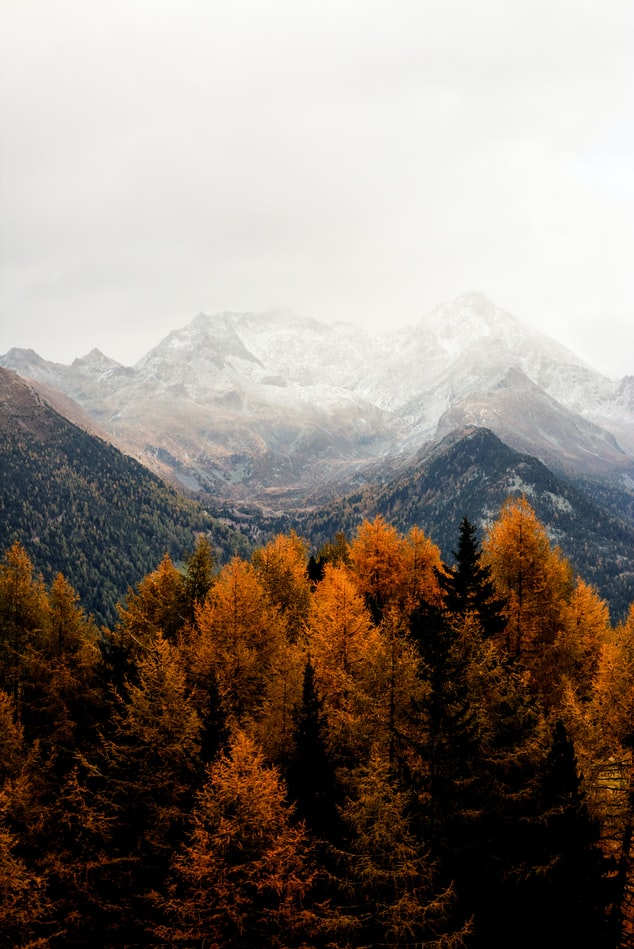
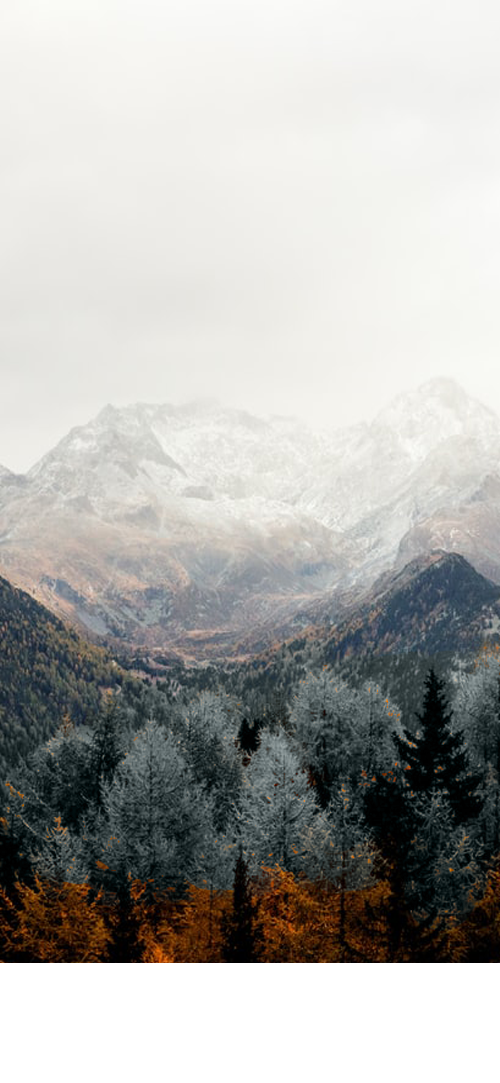
Edit images, added styles and content

diff --git a/Forest-Parallax/styles.scss b/Forest-Parallax/styles.scss
@@ -1,0 +1,101 @@
+@import url('https://fonts.googleapis.com/css?family=Nobile:400,700&display=swap');
+
+body{
+    margin: 0;
+    height: 100vh;
+    background: #141414;
+    font-family: 'Nobile';
+}
+
+*, *:before, *:before{
+    box-sizing: border-box;
+}
+
+.container{
+    padding: 2em;
+    height: 100vh;
+
+    &:first-child{
+        display: grid;
+        grid-template-rows: 10% 30% auto;
+    }
+
+    h1{
+        text-align: center;
+        margin-top: 2em;
+        font-weight: normal;
+        font-size: 3em;
+        line-height: .9em;
+
+    }
+
+    p{
+        line-height: 1.5em;
+        color: rgb(194, 194, 194);
+    }
+
+    .line{
+        align-self: end;
+        width: 50%;
+        border-right: 1px solid white;
+        height: 50%;
+        margin-bottom: 4em;
+        position: relative;
+
+        &::after {
+            content: '';
+            position: absolute;
+            width: 0;
+            height: 0;
+            border-style: solid;
+            border-color: white transparent transparent transparent;
+            border-width: 11px 11px 0 11px;
+            right: -.7em;
+            bottom: -2px;
+        }
+    }
+}
+
+header{
+    display: flex;
+    justify-content: space-between;
+
+}
+
+.logo{
+    color: black;
+    text-decoration: none;
+    font-weight: bold;
+    font-size: 1.1em;
+}
+
+h2{
+    color: white;
+    font-size: 3em;
+    margin: 0;
+    font-weight: normal;
+}
+
+.subtext{
+    margin-top: 0;
+    font-size: 1.4em;
+    text-transform: uppercase;
+}
+
+.secondary{
+    margin-top: -3em;
+}
+
+.mountains, .forest{
+    position: absolute;
+    z-index: -1;
+    width: 100%;
+}
+
+.mountains{
+    top: 0;
+}
+
+.forest{
+    top: 24%;
+}

diff --git a/Forest-Parallax/styles.css b/Forest-Parallax/styles.css
@@ -1,2 +1,93 @@
+@import url("https://fonts.googleapis.com/css?family=Nobile:400,700&display=swap");
+body {
+  margin: 0;
+  height: 100vh;
+  background: #141414;
+  font-family: "Nobile";
+}
 
-/*# sourceMappingURL=styles.css.map *//*# sourceMappingURL=styles.css.map */
+*, *:before, *:before {
+  box-sizing: border-box;
+}
+
+.container {
+  padding: 2em;
+  height: 100vh;
+}
+.container:first-child {
+  display: grid;
+  grid-template-rows: 10% 30% auto;
+}
+.container h1 {
+  text-align: center;
+  margin-top: 2em;
+  font-weight: normal;
+  font-size: 3em;
+  line-height: 0.9em;
+}
+.container p {
+  line-height: 1.5em;
+  color: #c2c2c2;
+}
+.container .line {
+  align-self: end;
+  width: 50%;
+  border-right: 1px solid white;
+  height: 50%;
+  margin-bottom: 4em;
+  position: relative;
+}
+.container .line::after {
+  content: "";
+  position: absolute;
+  width: 0;
+  height: 0;
+  border-style: solid;
+  border-color: white transparent transparent transparent;
+  border-width: 11px 11px 0 11px;
+  right: -0.7em;
+  bottom: -2px;
+}
+
+header {
+  display: flex;
+  justify-content: space-between;
+}
+
+.logo {
+  color: black;
+  text-decoration: none;
+  font-weight: bold;
+  font-size: 1.1em;
+}
+
+h2 {
+  color: white;
+  font-size: 3em;
+  margin: 0;
+  font-weight: normal;
+}
+
+.subtext {
+  margin-top: 0;
+  font-size: 1.4em;
+  text-transform: uppercase;
+}
+
+.secondary {
+  margin-top: -3em;
+}
+
+.mountains, .forest {
+  position: absolute;
+  z-index: -1;
+  width: 100%;
+}
+
+.mountains {
+  top: 0;
+}
+
+.forest {
+  top: 24%;
+}/*# sourceMappingURL=styles.css.map */

diff --git a/Forest-Parallax/index.html b/Forest-Parallax/index.html
@@ -1,13 +1,46 @@
 <!DOCTYPE html>
 <html lang="en">
+
 <head>
     <meta charset="UTF-8">
     <meta http-equiv="X-UA-Compatible" content="IE=edge">
     <meta name="viewport" content="width=device-width, initial-scale=1.0">
     <title>Document</title>
-    <link rel="stylesheet" href="styles.scss">
+    <link rel="stylesheet" href="styles.css">
 </head>
+
 <body>
-    
+
+    <div class="container">
+        <header>
+            <a href="#" class="logo">NatureComp</a>
+
+            <nav>
+                <img src="img/menu.svg" alt="menu">
+            </nav>
+        </header>
+
+        <h1>Preserve Nature</h1>
+
+        <div class="line"></div>
+
+    </div>
+
+    <div class="container secondary">
+        <h2>Strategic</h2>
+        <p class="subtext">Alliances</p>
+        <p>Lorem ipsum dolor sit amet consectetur adipisicing elit. Et cupiditate repellat maiores perspiciatis sed
+            impedit molestias corrupti minus, vitae eos dolorem accusamus tempora alias aperiam consectetur quas tempore
+            odit quae!</p>
+        <p>Lorem, ipsum dolor sit amet consectetur adipisicing elit. Rerum repudiandae in, amet fuga quos adipisci harum
+            assumenda. Sapiente, ut. Odit eius placeat maxime, aperiam quos perferendis accusantium minima distinctio
+            excepturi!</p>
+    </div>
+
+    <img src="img/mountains.png" alt="mountains" class="mountains">
+    <img src="img/forest.png" alt="forest" class="forest">
+
+
 </body>
+
 </html>
